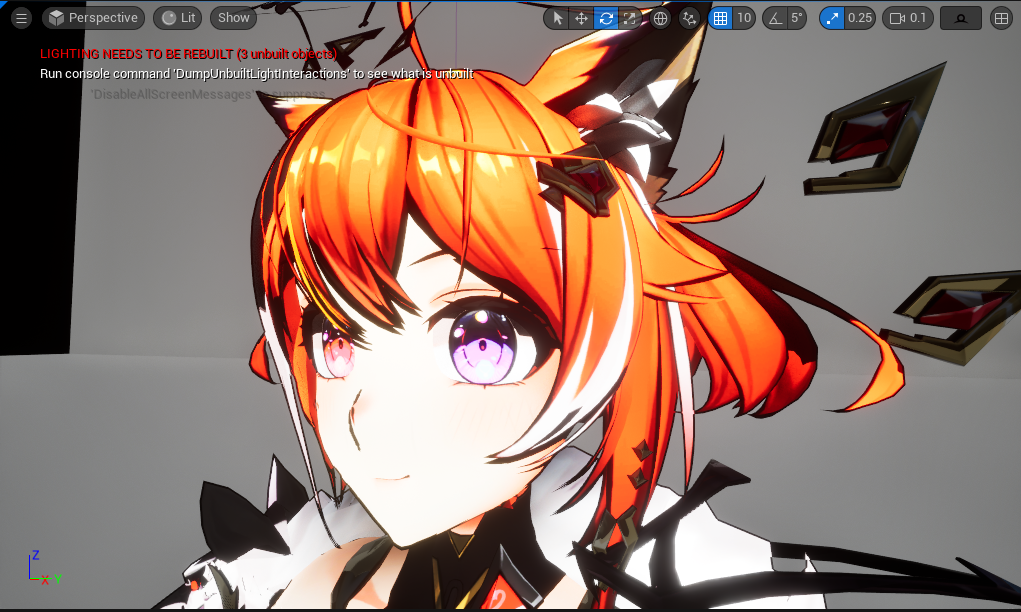
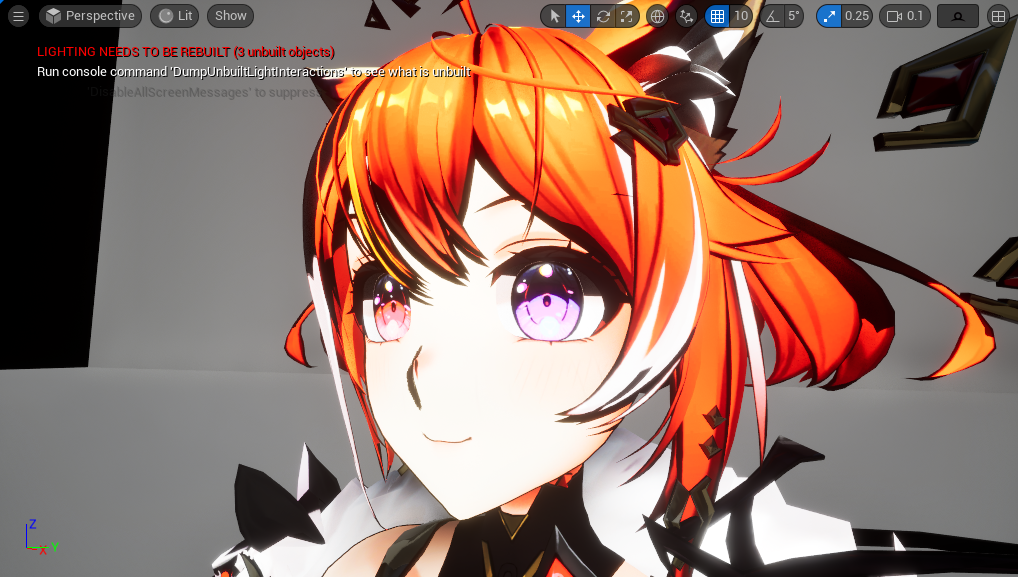
None

diff --git a/HowToStartToonRendering.md b/HowToStartToonRendering.md
@@ -44,7 +44,7 @@ then you can render outline for what model sections you want
 ![images](https://github.com/realAYAYA/UnrealEngine-ToonLit/blob/5.4/Features/Outline02.png)  
 ![images](https://github.com/realAYAYA/UnrealEngine-ToonLit/blob/5.4/Features/Outline03.png)  
 Here it looks like:  
-![images](https://github.com/realAYAYA/UnrealEngine-ToonLit/blob/5.4/Features/Outline04.png)  
+![images](https://github.com/realAYAYA/UnrealEngine-ToonLit/blob/5.4/Features/SSHairShadow.png)  
 
 * About how to make a outline material
 ![images](https://github.com/realAYAYA/UnrealEngine-ToonLit/blob/5.4/Features/Outline05.png)  
